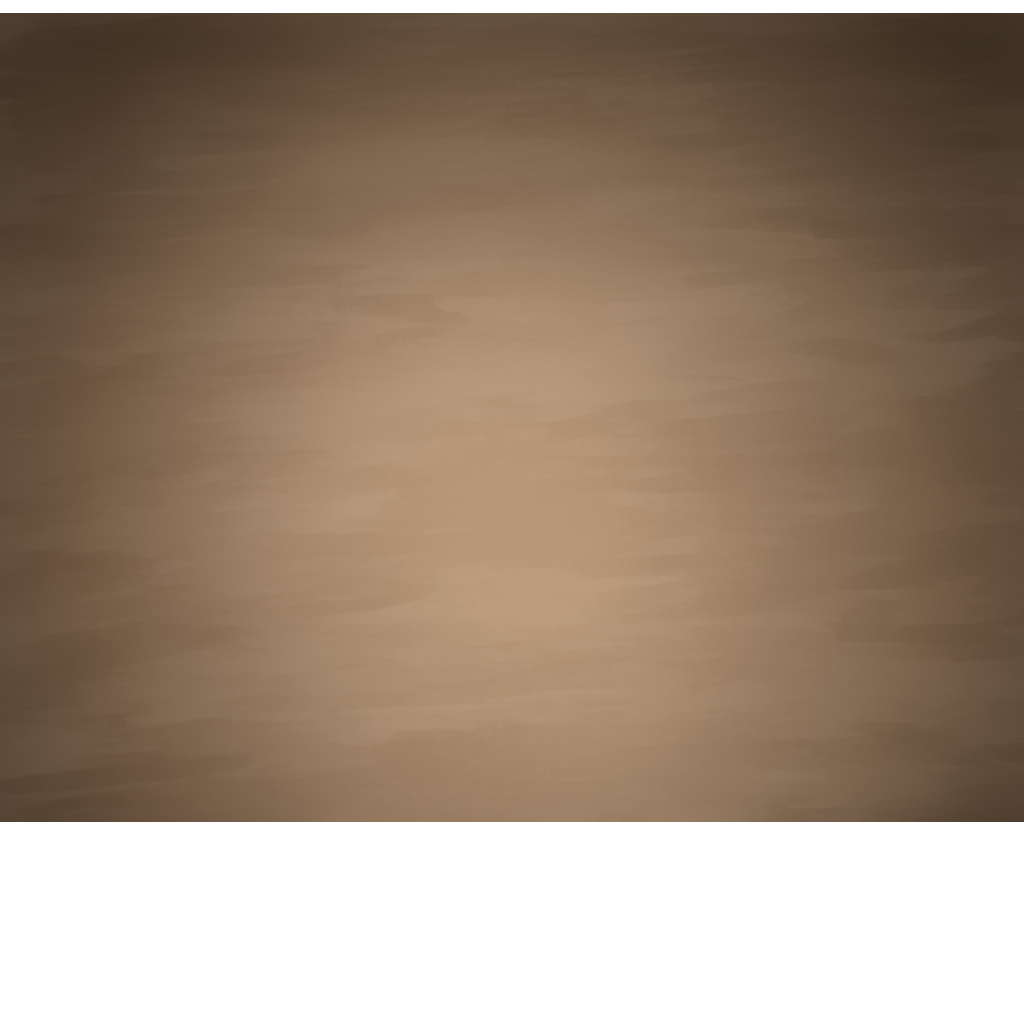
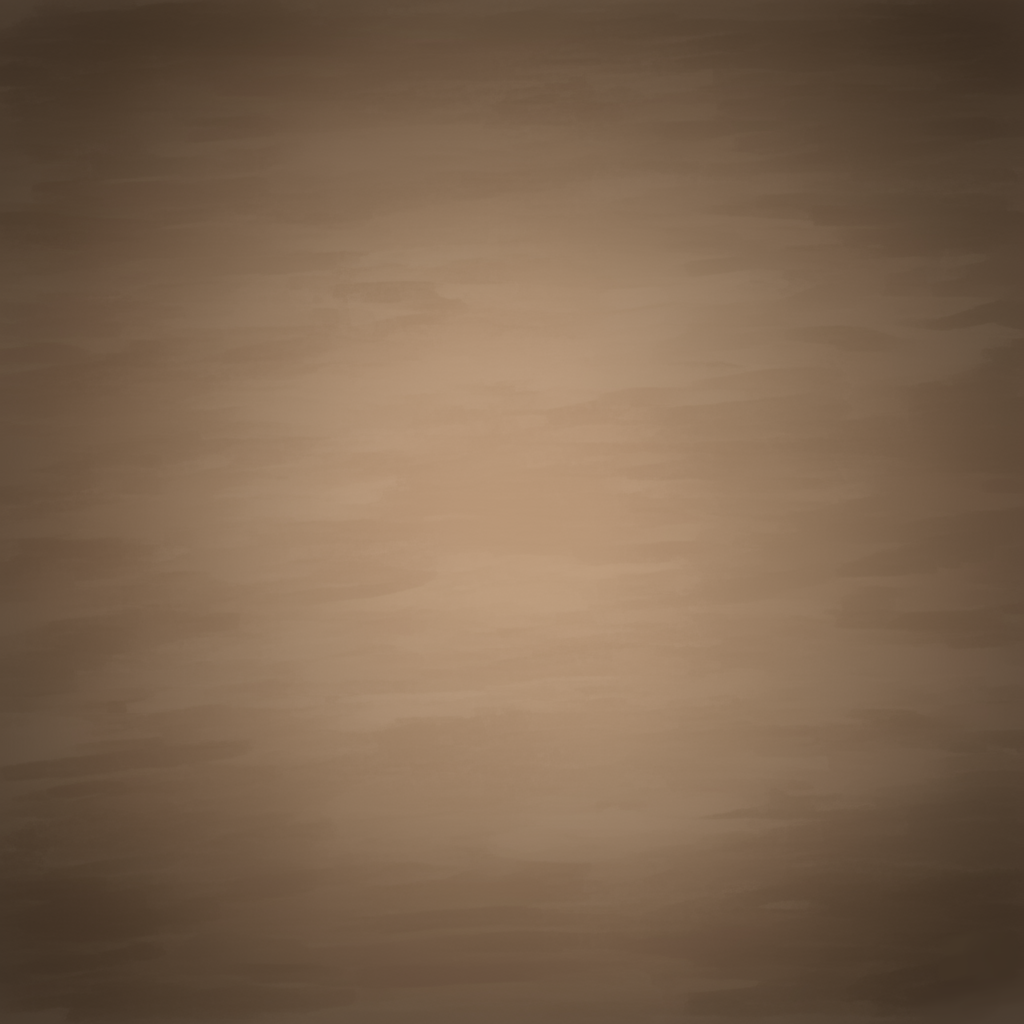
.

Changed region(s): [[0.0, 0.7812, 1.0, 1.0], [0.0, 0.0, 1.0, 0.0312]]

diff --git a/website/src/app/components/tests/tests.component.spec.ts b/website/src/app/components/tests/tests.component.spec.ts
@@ -1,0 +1,23 @@
+import { ComponentFixture, TestBed } from '@angular/core/testing';
+
+import { TestsComponent } from './tests.component';
+
+describe('TestsComponent', () => {
+  let component: TestsComponent;
+  let fixture: ComponentFixture<TestsComponent>;
+
+  beforeEach(async () => {
+    await TestBed.configureTestingModule({
+      imports: [TestsComponent]
+    })
+    .compileComponents();
+
+    fixture = TestBed.createComponent(TestsComponent);
+    component = fixture.componentInstance;
+    fixture.detectChanges();
+  });
+
+  it('should create', () => {
+    expect(component).toBeTruthy();
+  });
+});

diff --git a/website/src/app/components/gamepage/gamepage.component.html b/website/src/app/components/gamepage/gamepage.component.html
@@ -2,4 +2,19 @@
   <h1>Game Page</h1>
   <button class="button2">Start</button>
   <button class="button2" (click)="navigateToHome()">Exit</button>
+<br>
+
+<div class="card-container">
+  <div class="card">
+    <div class="card-inner">
+      <div class="card-front">
+        <img src="/website/public/images/Tile_1.png" alt="" class="card-img">
+      </div>
+      <div class="card-back">
+        <img src="../../../../public/images/Tile_Back.png" alt="" class="card-img">
+      </div>
+    </div>
+  </div>
+</div>
+
 </div>

diff --git a/website/src/styles.scss b/website/src/styles.scss
@@ -1,10 +1,11 @@
 /* You can add global styles to this file, and also import other style files */
-//$background: url('../public/images/background.png');
+$background: url('../public/images/Background.png');
 
 body {
   margin: 0;
   padding: 0;
   font-family: Arial, sans-serif;
-  //background: $background no-repeat center center fixed;
+  background: $background;
   background-size: cover;
+  background-color: #3d2e29;
 }

diff --git a/website/src/app/app.routes.ts b/website/src/app/app.routes.ts
@@ -4,6 +4,7 @@ import { GamepageComponent } from './components/gamepage/gamepage.component';
 import { LeaderboardComponent } from './components/leaderboard/leaderboard.component';
 
 export const routes: Routes = [
+  { path: '', component: HomeComponent },
   { path: 'home', component: HomeComponent },
   { path: 'game', component: GamepageComponent },
   { path: 'leaderboard', component: LeaderboardComponent }

diff --git a/website/src/app/components/tests/tests.component.ts b/website/src/app/components/tests/tests.component.ts
@@ -1,0 +1,11 @@
+import { Component } from '@angular/core';
+
+@Component({
+  selector: 'app-tests',
+  imports: [],
+  templateUrl: './tests.component.html',
+  styleUrl: './tests.component.scss'
+})
+export class TestsComponent {
+
+}

diff --git a/website/src/app/components/home/home.component.html b/website/src/app/components/home/home.component.html
@@ -1,5 +1,4 @@
 <div class="container">
-
   <div class="hero">
      <h1 class="title">Welcome to Hand Betting!</h1>
     <p class="subtitle">The ultimate platform for competitive hand betting games.</p>

diff --git a/website/src/app/components/tests/tests.component.html b/website/src/app/components/tests/tests.component.html
@@ -1,0 +1,1 @@
+<p>tests works!</p>
